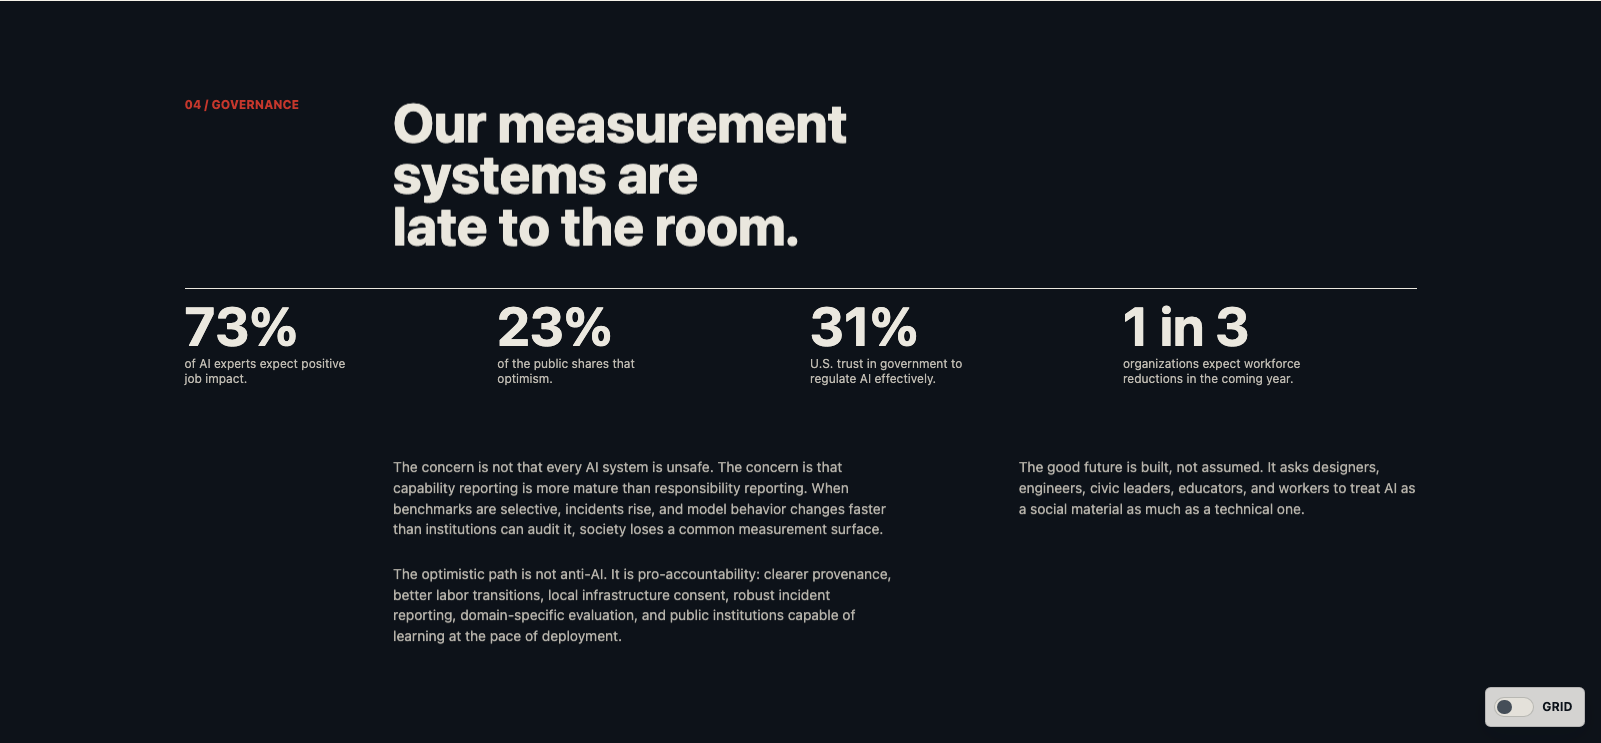
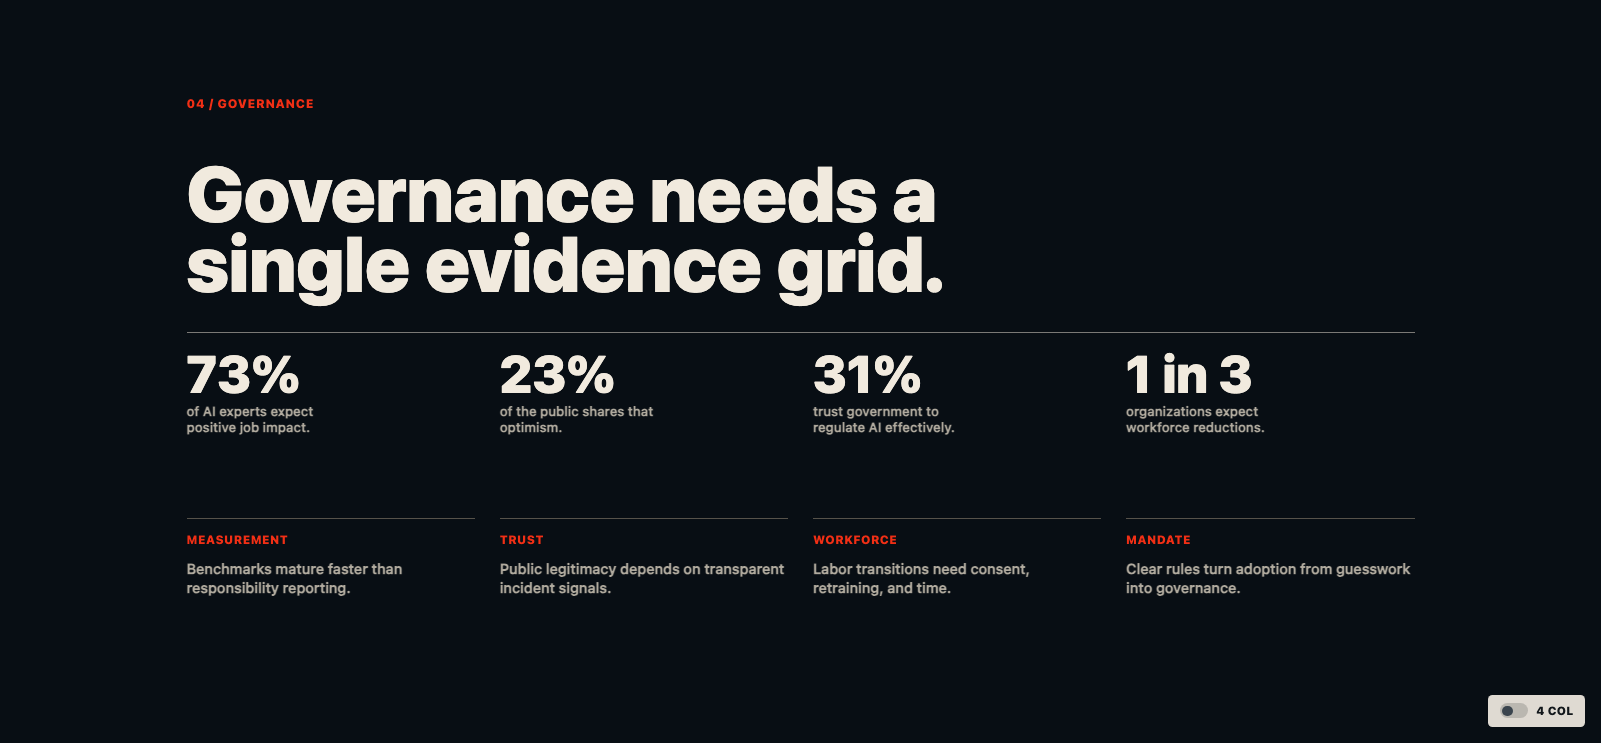
Fix governance grid example

diff --git a/skills/grid-composition-design/assets/examples/governance-heading-scale.html b/skills/grid-composition-design/assets/examples/governance-heading-scale.html
@@ -1,0 +1,237 @@
+<!doctype html>
+<html lang="en">
+  <head>
+    <meta charset="utf-8" />
+    <meta name="viewport" content="width=device-width, initial-scale=1" />
+    <title>Governance Heading Scale Example</title>
+    <style>
+      :root {
+        color-scheme: dark;
+        --ink: oklch(94% 0.018 83);
+        --muted: oklch(74% 0.018 83);
+        --quiet: oklch(48% 0.018 83);
+        --red: oklch(62% 0.23 31);
+        --bg: oklch(16% 0.016 246);
+        --rule: oklch(72% 0.012 83 / 0.72);
+        --gap: 1.55rem;
+        font-family:
+          Inter, ui-sans-serif, system-ui, -apple-system, BlinkMacSystemFont,
+          "Segoe UI", sans-serif;
+      }
+
+      * {
+        box-sizing: border-box;
+      }
+
+      html,
+      body {
+        margin: 0;
+        min-height: 100%;
+        background: var(--bg);
+      }
+
+      body {
+        width: 100vw;
+        height: 100vh;
+        display: grid;
+        place-items: stretch;
+        color: var(--ink);
+      }
+
+      .frame {
+        inline-size: 100vw;
+        block-size: 100vh;
+        display: grid;
+        grid-template-columns:
+          [full-start] minmax(2.4rem, 1fr)
+          [content-start] minmax(0, 76.75rem)
+          [content-end] minmax(2.4rem, 1fr)
+          [full-end];
+        padding-block: 6.15rem 4.65rem;
+      }
+
+      .section {
+        grid-column: content-start / content-end;
+        display: grid;
+        grid-template-columns: repeat(4, [col-start] minmax(0, 1fr) [col-end]);
+        column-gap: var(--gap);
+        align-content: start;
+      }
+
+      .eyebrow {
+        grid-column: 1 / -1;
+        color: var(--red);
+        font-size: 0.76rem;
+        line-height: 1;
+        font-weight: 850;
+        letter-spacing: 0.06em;
+        text-transform: uppercase;
+      }
+
+      h1 {
+        grid-column: 1 / -1;
+        max-inline-size: 16.8ch;
+        margin: 2.95rem 0 2.15rem;
+        font-size: 4.85rem;
+        line-height: 0.9;
+        font-weight: 880;
+        letter-spacing: 0;
+      }
+
+      .rule {
+        grid-column: 1 / -1;
+        block-size: 0.0625rem;
+        background: var(--rule);
+      }
+
+      .stats,
+      .notes {
+        grid-column: 1 / -1;
+        display: grid;
+        grid-template-columns: subgrid;
+        column-gap: var(--gap);
+      }
+
+      .stats {
+        margin-block-start: 1.1rem;
+      }
+
+      .stat,
+      .note {
+        grid-column: span 1;
+        min-inline-size: 0;
+      }
+
+      .number {
+        display: block;
+        margin-block-end: 0.28rem;
+        font-size: 3.25rem;
+        line-height: 0.92;
+        font-weight: 860;
+        letter-spacing: 0;
+      }
+
+      .label {
+        max-inline-size: 18ch;
+        color: var(--muted);
+        font-size: 0.82rem;
+        line-height: 1.24;
+        font-weight: 560;
+      }
+
+      .notes {
+        margin-block-start: 5.15rem;
+      }
+
+      .note {
+        padding-block-start: 0.92rem;
+        border-block-start: 0.0625rem solid oklch(44% 0.014 83);
+      }
+
+      .note h2 {
+        margin: 0 0 0.78rem;
+        color: var(--red);
+        font-size: 0.74rem;
+        line-height: 1.1;
+        font-weight: 850;
+        letter-spacing: 0.04em;
+        text-transform: uppercase;
+      }
+
+      .note p {
+        margin: 0;
+        color: var(--muted);
+        font-size: 0.9rem;
+        line-height: 1.32;
+        font-weight: 560;
+      }
+
+      .contract {
+        position: fixed;
+        right: 1rem;
+        bottom: 1rem;
+        display: grid;
+        grid-template-columns: 1.75rem auto;
+        gap: 0.55rem;
+        align-items: center;
+        padding: 0.55rem 0.72rem;
+        border-radius: 0.28rem;
+        background: oklch(89% 0.012 83);
+        color: oklch(20% 0.012 246);
+        font-size: 0.72rem;
+        font-weight: 850;
+        letter-spacing: 0.02em;
+      }
+
+      .switch {
+        inline-size: 1.75rem;
+        block-size: 0.92rem;
+        border-radius: 99rem;
+        background: oklch(78% 0.01 83);
+        position: relative;
+      }
+
+      .switch::before {
+        content: "";
+        position: absolute;
+        inline-size: 0.64rem;
+        block-size: 0.64rem;
+        inset-block-start: 0.14rem;
+        inset-inline-start: 0.18rem;
+        border-radius: 50%;
+        background: oklch(38% 0.02 246);
+      }
+    </style>
+  </head>
+  <body>
+    <main class="frame">
+      <section class="section" aria-label="Governance evidence section">
+        <div class="eyebrow">04 / Governance</div>
+        <h1>Governance needs a single evidence grid.</h1>
+        <div class="rule" aria-hidden="true"></div>
+
+        <div class="stats">
+          <div class="stat">
+            <strong class="number">73%</strong>
+            <div class="label">of AI experts expect positive job impact.</div>
+          </div>
+          <div class="stat">
+            <strong class="number">23%</strong>
+            <div class="label">of the public shares that optimism.</div>
+          </div>
+          <div class="stat">
+            <strong class="number">31%</strong>
+            <div class="label">trust government to regulate AI effectively.</div>
+          </div>
+          <div class="stat">
+            <strong class="number">1 in 3</strong>
+            <div class="label">organizations expect workforce reductions.</div>
+          </div>
+        </div>
+
+        <div class="notes">
+          <article class="note">
+            <h2>Measurement</h2>
+            <p>Benchmarks mature faster than responsibility reporting.</p>
+          </article>
+          <article class="note">
+            <h2>Trust</h2>
+            <p>Public legitimacy depends on transparent incident signals.</p>
+          </article>
+          <article class="note">
+            <h2>Workforce</h2>
+            <p>Labor transitions need consent, retraining, and time.</p>
+          </article>
+          <article class="note">
+            <h2>Mandate</h2>
+            <p>Clear rules turn adoption from guesswork into governance.</p>
+          </article>
+        </div>
+      </section>
+    </main>
+    <div class="contract" aria-hidden="true">
+      <span class="switch"></span>
+      <span>4 COL</span>
+    </div>
+  </body>
+</html>

diff --git a/skills/grid-composition-design/references/example-gallery.md b/skills/grid-composition-design/references/example-gallery.md
@@ -7,7 +7,7 @@ Use these images as quick visual references when applying `grid-composition-desi
 ## Examples
 
 - `assets/examples/systems-equal-modules.png` - equal-width visual modules with a quiet top rule instead of fake chart-grid decoration.
-- `assets/examples/governance-heading-scale.png` - section heading scaled and spanned to dominate the stat row below it.
+- `assets/examples/governance-heading-scale.png` - section heading, evidence, and notes using one four-column contract with no odd/even grid mixing inside the section.
 - `assets/examples/work-side-rail.png` - article flow with a separated, intrinsic-height timeline side rail.
 - `assets/examples/source-ledger-balanced.png` - six source cards balanced as a 3-by-2 desktop grid with no orphan item.
 - `assets/examples/dark-matrix-tightened.png` - dark matrix modules with title/copy rhythm tightened instead of `space-between` drift.